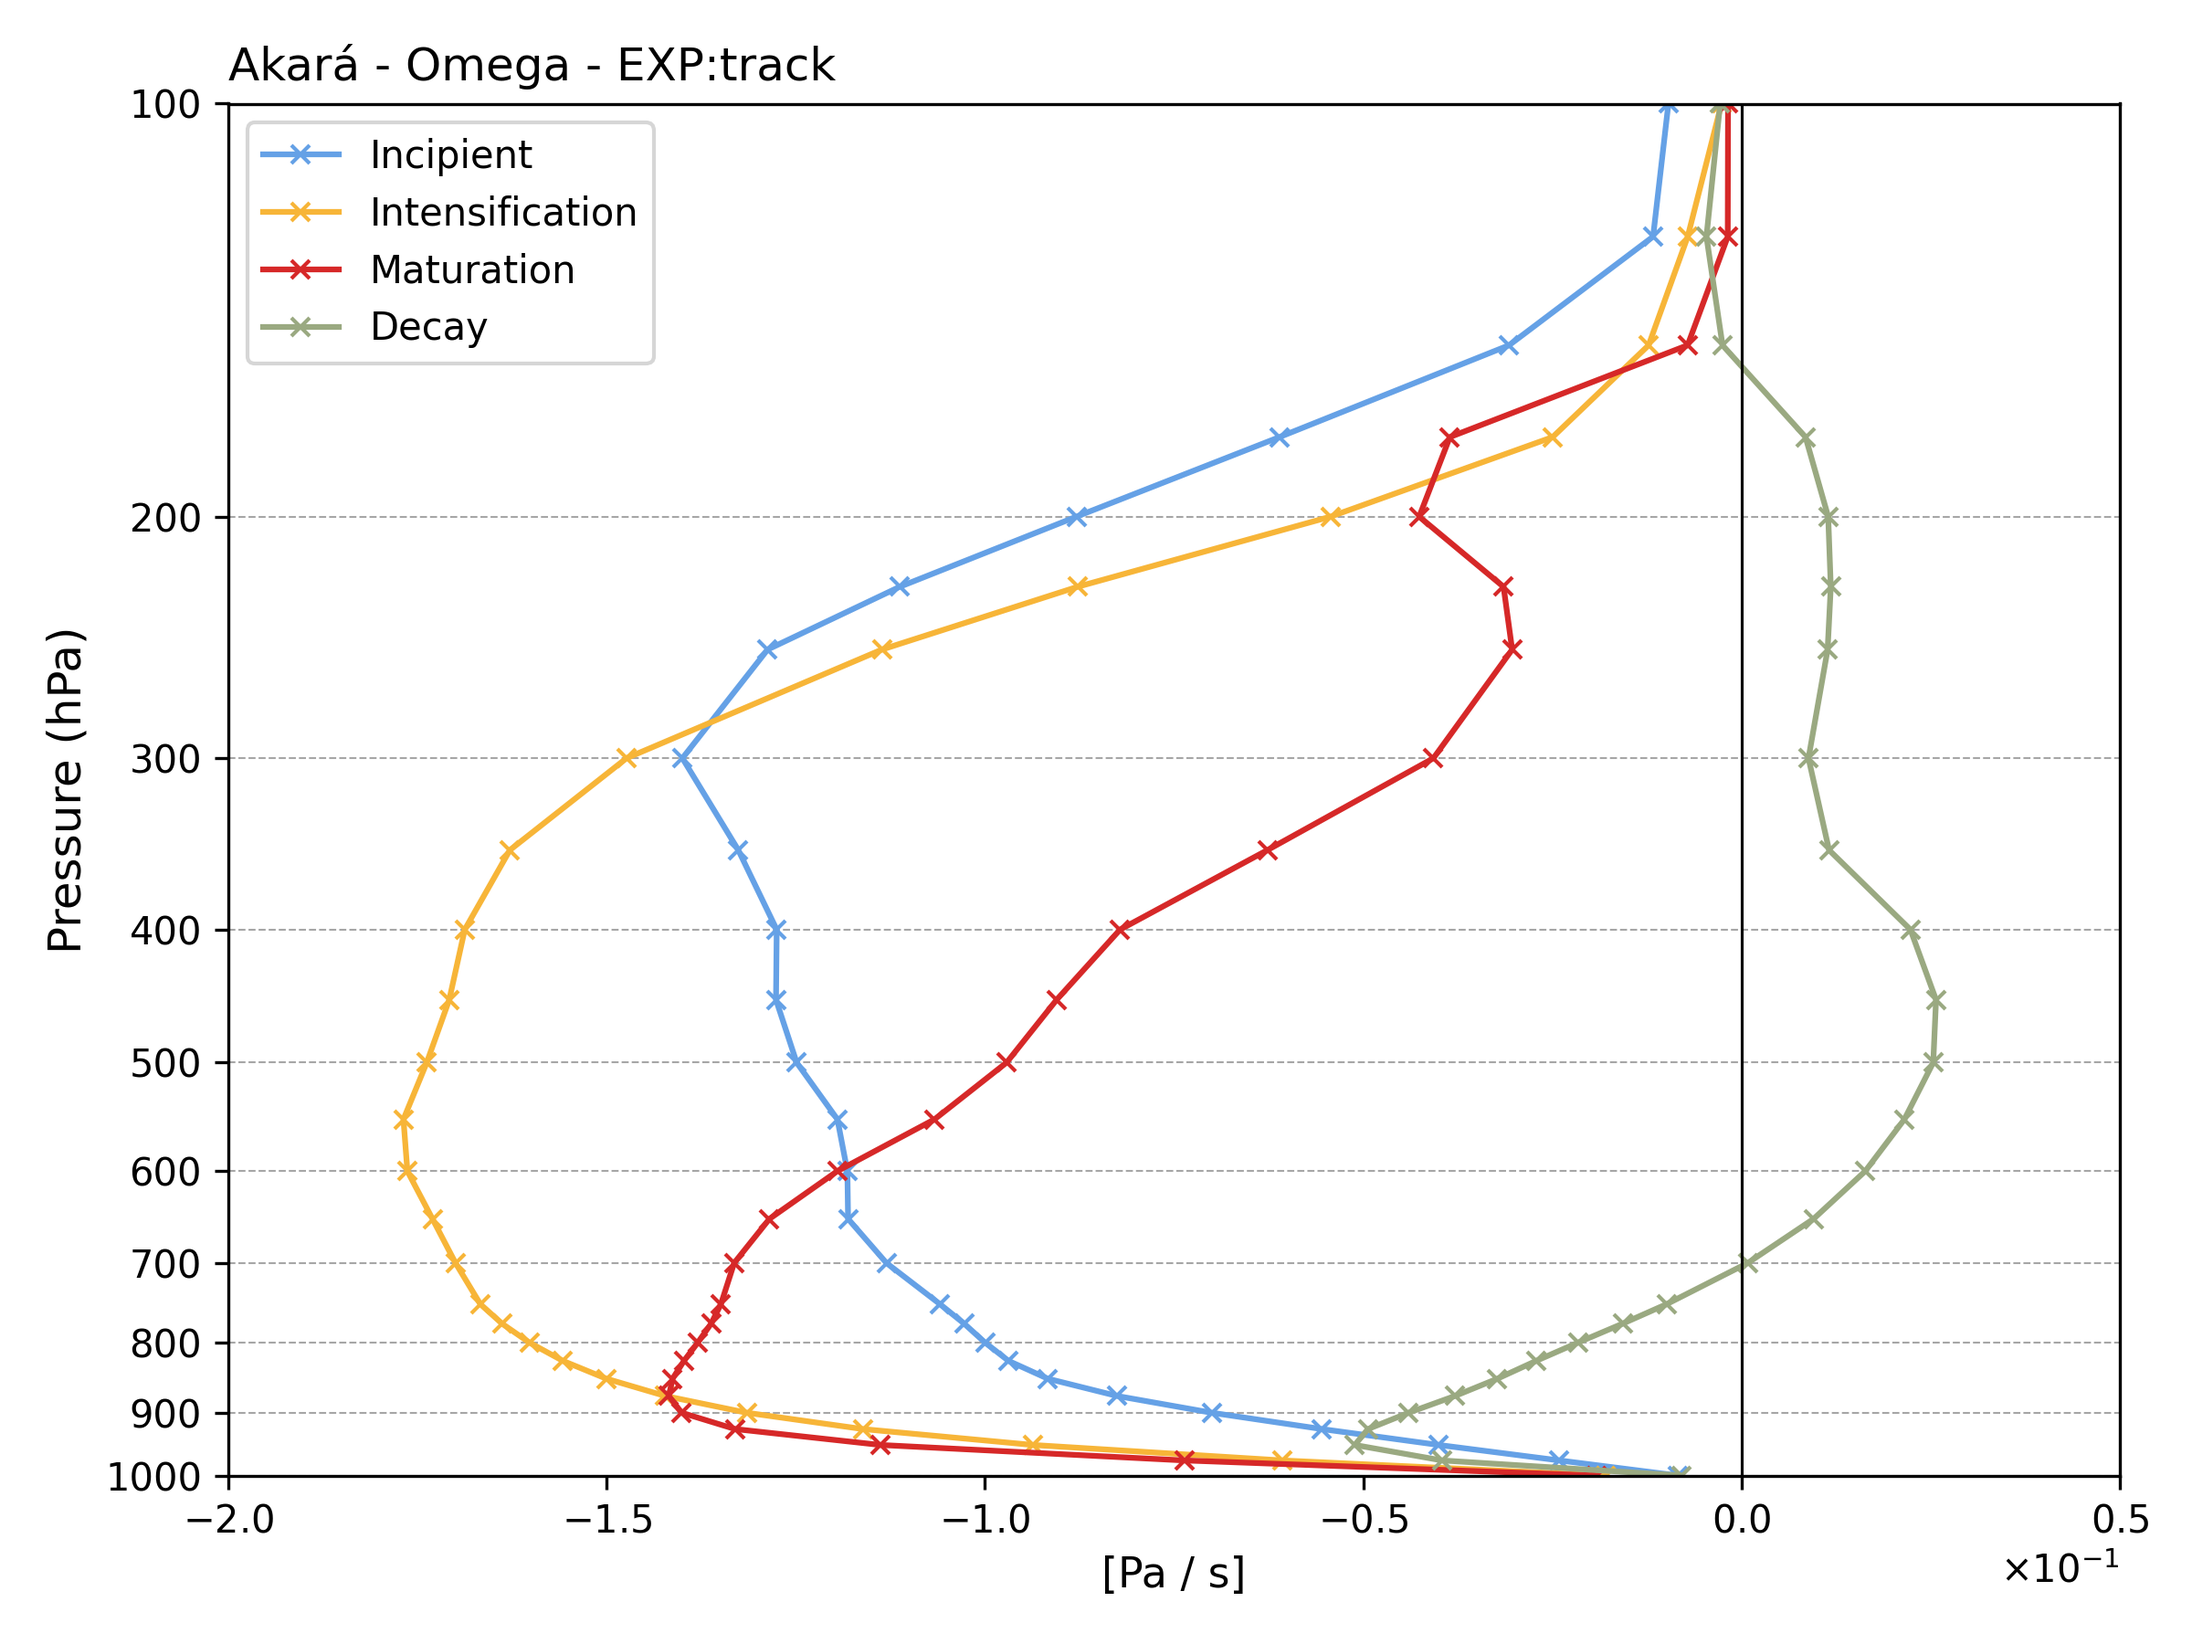
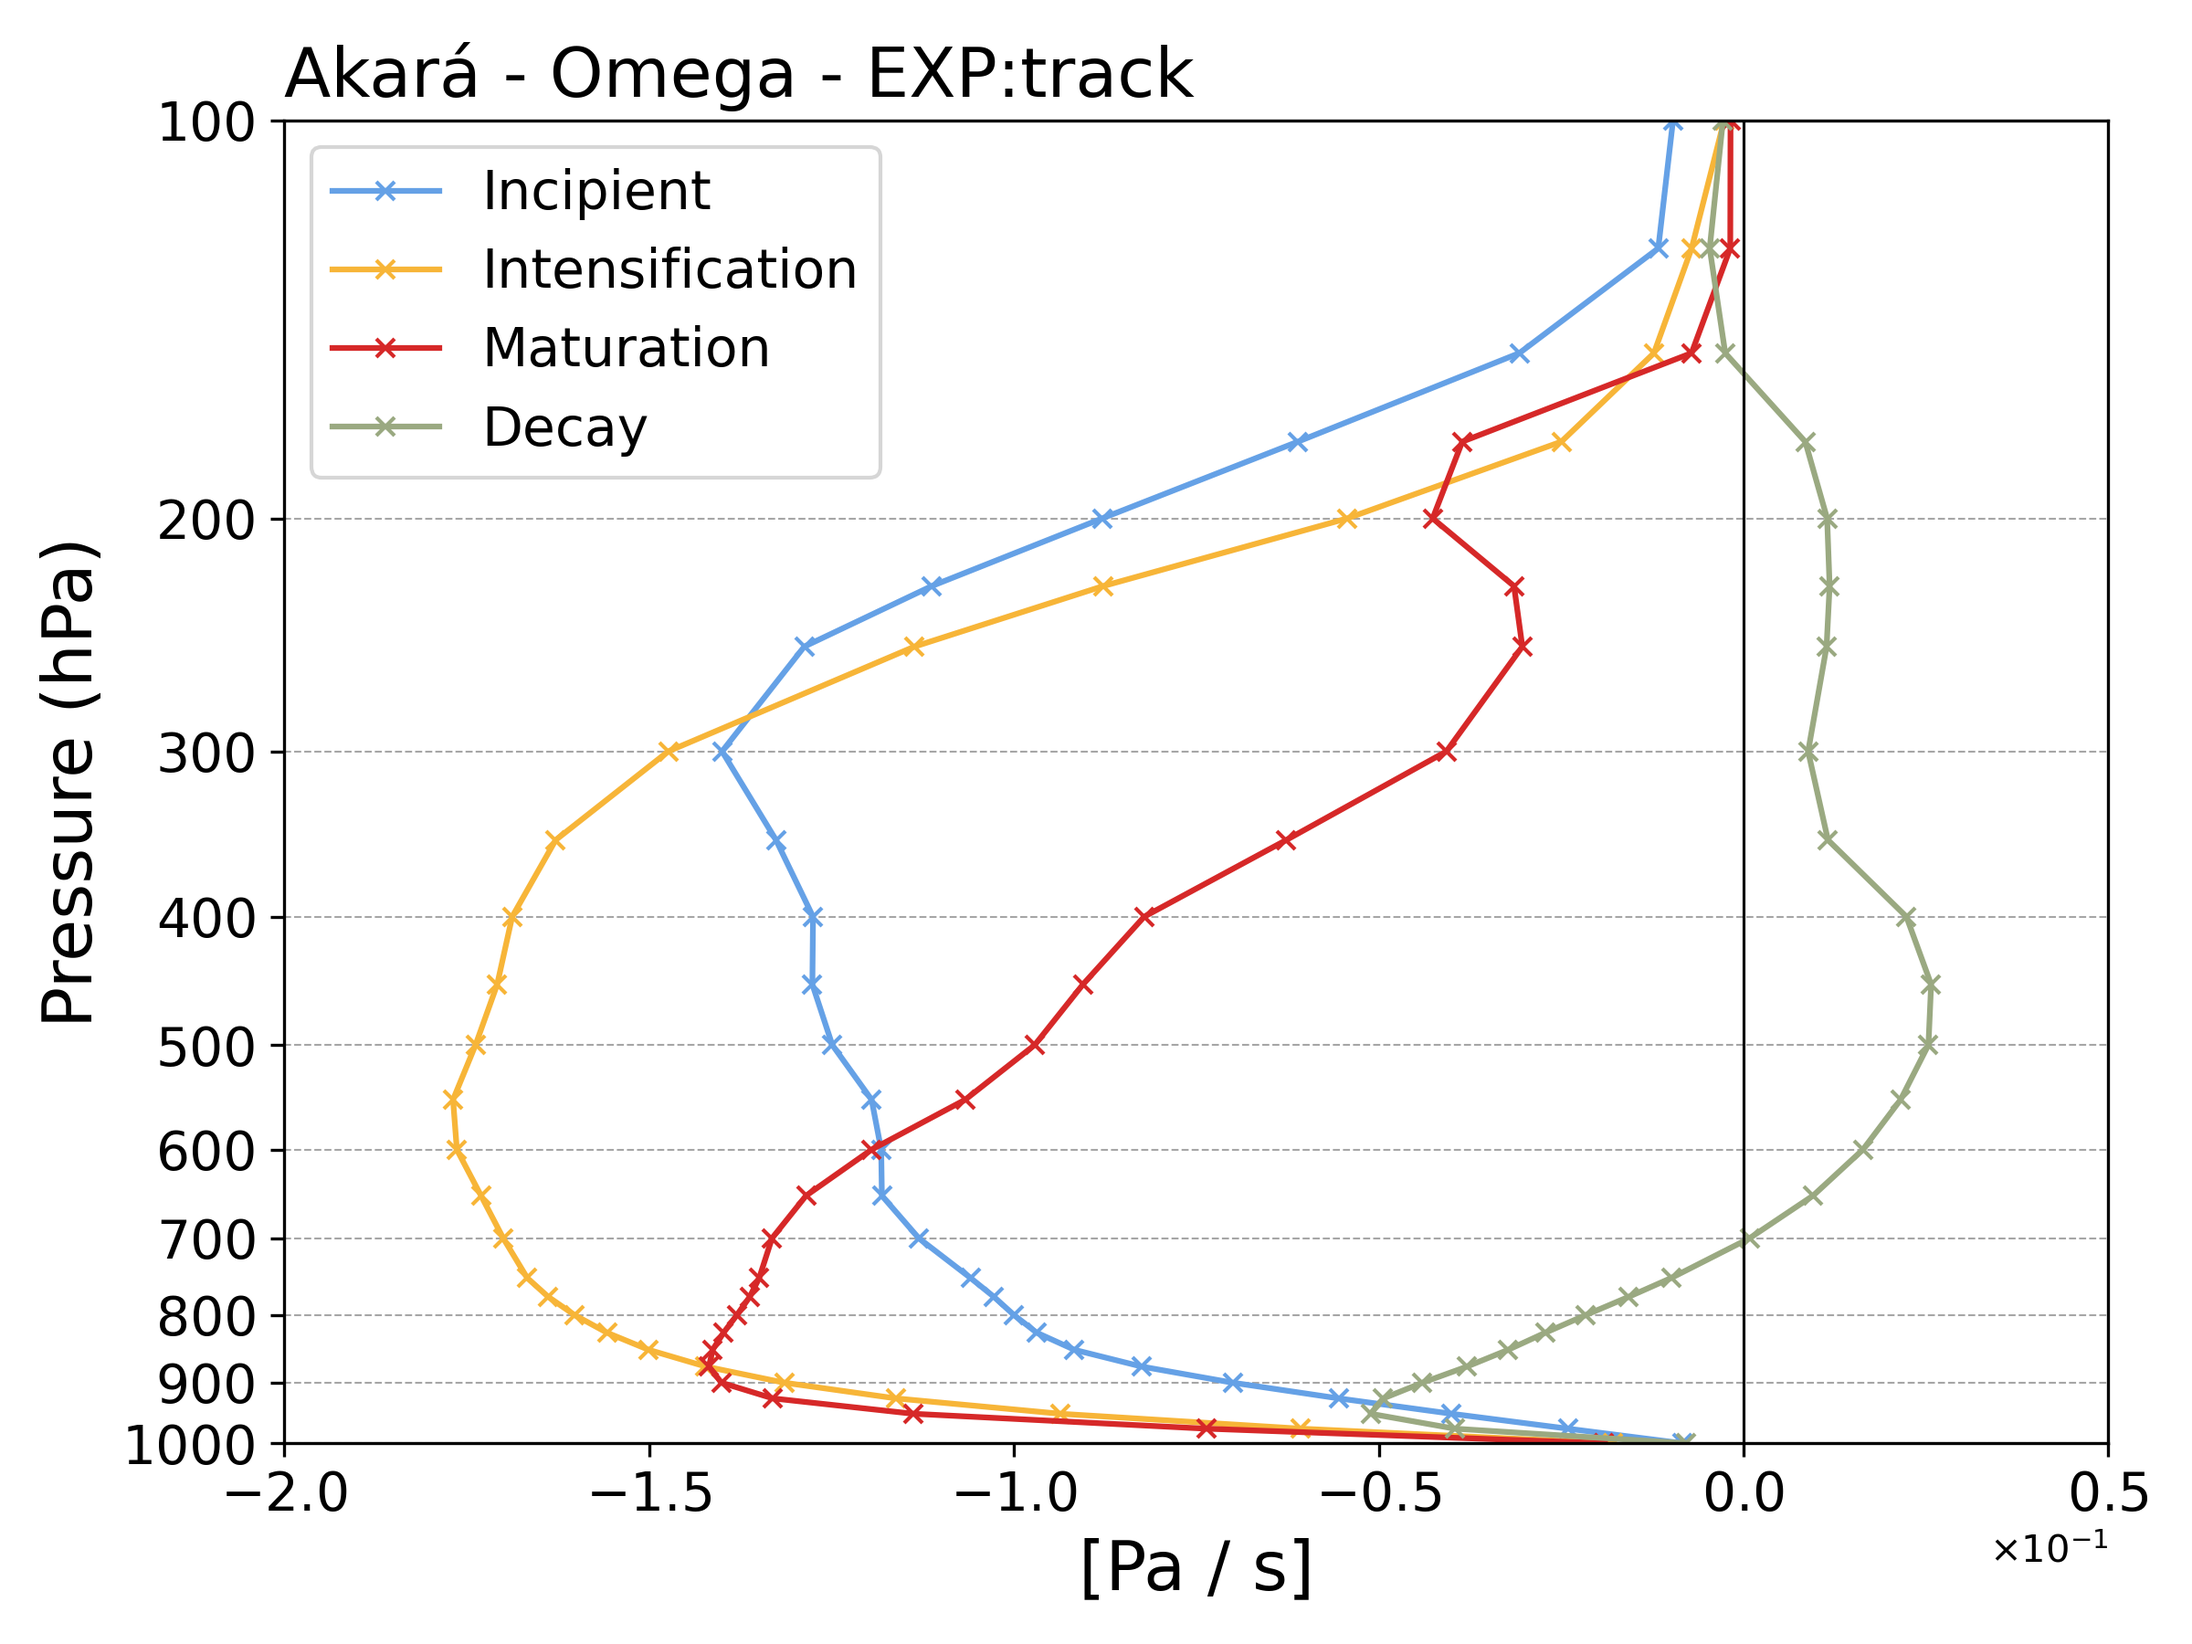
atualização balanços T

diff --git a/Akara/AtmosBud/akara1_track/Scripts/T_hov_1000_100.py b/Akara/AtmosBud/akara1_track/Scripts/T_hov_1000_100.py
@@ -46,7 +46,7 @@ for nome_arquivo, caminho in arquivos.items():
     df.index = df.index / 100
 
     # Criando o diagrama Hovmöller
-    fig, ax = plt.subplots(figsize=(8, 6))
+    fig, ax = plt.subplots(figsize=(10, 8))
     norm = TwoSlopeNorm(vmin=vmin, vcenter=0, vmax=vmax)
 
     # Contornos preenchidos
@@ -55,8 +55,8 @@ for nome_arquivo, caminho in arquivos.items():
     
     # Barra de cores
     cbar = fig.colorbar(im)
-    cbar.set_label('[K / Day]', fontsize=12)
-    cbar.ax.tick_params(labelsize=10)
+    cbar.set_label('[K / Day]', fontsize=18)
+    cbar.ax.tick_params(labelsize=15)
 
     # Configurar eixo y como logarítmico
     ax.invert_yaxis()
@@ -64,7 +64,7 @@ for nome_arquivo, caminho in arquivos.items():
     ax.set_yscale('log')
     ax.set_yticks([1000, 900, 800, 700, 600, 500, 400, 300, 200, 100])
     ax.set_yticklabels([1000, 900, 800, 700, 600, 500, 400, 300, 200, 100])
-    ax.set_ylabel("Pressure (hPa)", fontsize=14)
+    ax.set_ylabel("Pressure (hPa)", fontsize=18)
 
     # Linhas verticais em datas específicas
     for time in ['2024-02-14T21', '2024-02-16T09', '2024-02-19T15', '2024-02-20T06']:
@@ -74,9 +74,11 @@ for nome_arquivo, caminho in arquivos.items():
     ax.xaxis.set_major_locator(mdates.AutoDateLocator())
     ax.xaxis.set_major_formatter(DateFormatter('%m-%d %HZ'))
     ax.tick_params(axis='x', labelrotation=45)
+    ax.tick_params(axis='x', labelsize=18)  # Aumentar tamanho dos valores no eixo x
+    ax.tick_params(axis='y', labelsize=18)
 
     # Configurar título e rótulos dos eixos
-    ax.set_title(f'Akará - {label} - EXP:track', fontsize=12, loc='left')
+    ax.set_title(f'Akará - {label}\nEXP:track', fontsize=18, loc='left')
 
     # Salvar o gráfico
     plt.savefig(DIRFIGS + f"{nome_arquivo}_track_hov_custom.png", bbox_inches='tight', dpi=300)

diff --git a/Akara/AtmosBud/akara1_track/Scripts/T_hov_500_10.py b/Akara/AtmosBud/akara1_track/Scripts/T_hov_500_10.py
@@ -46,7 +46,7 @@ for nome_arquivo, caminho in arquivos.items():
     df.index = df.index / 100
 
     # Criando o diagrama Hovmöller
-    fig, ax = plt.subplots(figsize=(8, 6))
+    fig, ax = plt.subplots(figsize=(10, 8))
     norm = TwoSlopeNorm(vmin=vmin, vcenter=0, vmax=vmax)
 
     # Contornos preenchidos
@@ -55,8 +55,8 @@ for nome_arquivo, caminho in arquivos.items():
     
     # Barra de cores
     cbar = fig.colorbar(im)
-    cbar.set_label('[K / Day]', fontsize=12)
-    cbar.ax.tick_params(labelsize=10)
+    cbar.set_label('[K / Day]', fontsize=18)
+    cbar.ax.tick_params(labelsize=15)
 
     # Configurar eixo y como logarítmico
     ax.invert_yaxis()
@@ -64,7 +64,7 @@ for nome_arquivo, caminho in arquivos.items():
     ax.set_yscale('log')
     ax.set_yticks([500, 400, 300, 200, 100, 70, 50, 30, 20, 10])
     ax.set_yticklabels([500, 400, 300, 200, 100, 70, 50, 30, 20, 10])
-    ax.set_ylabel("Pressure (hPa)", fontsize=14)
+    ax.set_ylabel("Pressure (hPa)", fontsize=18)
 
     # Linhas verticais em datas específicas
     for time in ['2024-02-17T00', '2024-02-18T00', '2024-02-19T00', '2024-02-20T00']:
@@ -74,9 +74,11 @@ for nome_arquivo, caminho in arquivos.items():
     ax.xaxis.set_major_locator(mdates.AutoDateLocator())
     ax.xaxis.set_major_formatter(DateFormatter('%m-%d %HZ'))
     ax.tick_params(axis='x', labelrotation=45)
+    ax.tick_params(axis='x', labelsize=18)  # Aumentar tamanho dos valores no eixo x
+    ax.tick_params(axis='y', labelsize=18)
 
     # Configurar título e rótulos dos eixos
-    ax.set_title(f'Akará - {label} - EXP:track', fontsize=12, loc='left')
+    ax.set_title(f'Akará - {label}\nEXP:track', fontsize=18, loc='left')
 
     # Salvar o gráfico
     plt.savefig(DIRFIGS + f"{nome_arquivo}_track_hov_custom_500_10.png", bbox_inches='tight', dpi=300)

diff --git a/Akara/AtmosBud/akara1_track/Scripts/T_hov_500_100.py b/Akara/AtmosBud/akara1_track/Scripts/T_hov_500_100.py
@@ -46,7 +46,7 @@ for nome_arquivo, caminho in arquivos.items():
     df.index = df.index / 100
 
     # Criando o diagrama Hovmöller
-    fig, ax = plt.subplots(figsize=(8, 6))
+    fig, ax = plt.subplots(figsize=(10, 8))
     norm = TwoSlopeNorm(vmin=vmin, vcenter=0, vmax=vmax)
 
     # Contornos preenchidos
@@ -55,8 +55,8 @@ for nome_arquivo, caminho in arquivos.items():
     
     # Barra de cores
     cbar = fig.colorbar(im)
-    cbar.set_label('[K / Day]', fontsize=12)
-    cbar.ax.tick_params(labelsize=10)
+    cbar.set_label('[K / Day]', fontsize=18)
+    cbar.ax.tick_params(labelsize=15)
 
     # Configurar eixo y como logarítmico
     ax.invert_yaxis()
@@ -64,7 +64,9 @@ for nome_arquivo, caminho in arquivos.items():
     ax.set_yscale('log')
     ax.set_yticks([500, 400, 300, 200, 100])
     ax.set_yticklabels([500, 400, 300, 200, 100])
-    ax.set_ylabel("Pressure (hPa)", fontsize=14)
+    ax.set_ylabel("Pressure (hPa)", fontsize=18)
+    ax.tick_params(axis='x', labelsize=18)  # Aumentar tamanho dos valores no eixo x
+    ax.tick_params(axis='y', labelsize=18)
 
     # Linhas verticais em datas específicas
     for time in ['2024-02-17T00', '2024-02-18T00', '2024-02-19T00', '2024-02-20T00']:
@@ -76,7 +78,7 @@ for nome_arquivo, caminho in arquivos.items():
     ax.tick_params(axis='x', labelrotation=45)
 
     # Configurar título e rótulos dos eixos
-    ax.set_title(f'Akará - {label} - EXP:track', fontsize=12, loc='left')
+    ax.set_title(f'Akará - {label}\nEXP:track', fontsize=18, loc='left')
 
     # Salvar o gráfico
     plt.savefig(DIRFIGS + f"{nome_arquivo}_track_hov_custom_500_100.png", bbox_inches='tight', dpi=300)

diff --git a/Akara/AtmosBud/akara1_track/Scripts/omega_hov.py b/Akara/AtmosBud/akara1_track/Scripts/omega_hov.py
@@ -51,12 +51,13 @@ im = ax.contourf(df.columns, df.index, df.values, cmap='coolwarm', extend='both'
 cbar = fig.colorbar(im)
 
 
+
 ax.invert_yaxis()
 ax.set_ylim(1000, 100)
 ax.set_yscale('log')
 ax.set_yticks([1000, 900, 800, 700, 600, 500, 400, 300, 200, 100])
 ax.set_yticklabels([1000, 900, 800, 700, 600, 500, 400, 300, 200, 100])
-ax.set_ylabel("Pressure (hPa)", fontsize=14)
+ax.set_ylabel("Pressure (hPa)", fontsize=18)
 
 # Adicionar linhas verticais em datas específicas
 for time in ['2024-02-14T21', '2024-02-16T09', '2024-02-19T15', '2024-02-20T06']:
@@ -68,11 +69,12 @@ ax.xaxis.set_major_formatter(DateFormatter('%Y-%m-%d'))
 ax.tick_params(axis='x', labelrotation=45)
 
 # Configurar título e rótulos dos eixos
-ax.set_title(f'Akará - Omega - EXP:track', fontsize=12, loc='left')
-ax.set_ylabel('Pressure (hPa)', fontsize=14)
-
+ax.set_title(f'Akará - Omega - EXP:track', fontsize=18, loc='left')
+ax.set_ylabel('Pressure (hPa)', fontsize=18)
+ax.tick_params(axis='x', labelsize=18)  # Aumentar tamanho dos valores no eixo x
+ax.tick_params(axis='y', labelsize=18)
 # Editar legenda da barra de cores
-cbar.set_label('[Pa / s]', fontsize=12)
+cbar.set_label('[Pa / s]', fontsize=18)
 cbar.ax.tick_params(labelsize=10)
 
 # Adicionar formatação científica à barra de cores

diff --git a/Akara/AtmosBud/akara1_track/Scripts/omega_perfil.py b/Akara/AtmosBud/akara1_track/Scripts/omega_perfil.py
@@ -65,14 +65,16 @@ for i in lista_arquivos:
     ax.grid(axis='y', linestyle='--', color='gray', alpha=0.7, linewidth=0.5)  # Linhas de grade horizontais
 
     # Definir título e rótulos dos eixos
-    ax.set_title(f'Akará - Omega - EXP:track', fontsize=12, loc='left')
-    ax.set_xlabel('[Pa / s]', fontsize=11)
-    ax.set_ylabel('Pressure (hPa)', fontsize=12)
+    ax.set_title(f'Akará - Omega - EXP:track', fontsize=18, loc='left')
+    ax.set_xlabel('[Pa / s]', fontsize=18)
+    ax.set_ylabel('Pressure (hPa)', fontsize=18)
     ax.set_xlim([-2e-1,0.5e-1])
 
     # Formatação científica para o eixo X
     ax.xaxis.set_major_formatter(ticker.ScalarFormatter(useMathText=True))
     ax.ticklabel_format(style='sci', axis='x', scilimits=(0, 0))
+    ax.tick_params(axis='x', labelsize=14)  # Aumentar tamanho dos valores no eixo x
+    ax.tick_params(axis='y', labelsize=14)
 
     # Definir ticks personalizados para o eixo Y
     custom_y_ticks = [1000, 900, 800, 700, 600, 500, 400, 300, 200, 100]
@@ -83,7 +85,7 @@ for i in lista_arquivos:
     fig.patch.set_facecolor('#ffffff')
 
     # Exibir legenda e ajustar layout
-    plt.legend()
+    plt.legend(fontsize=14)
     plt.tight_layout()
 
     # Salvar a figura
